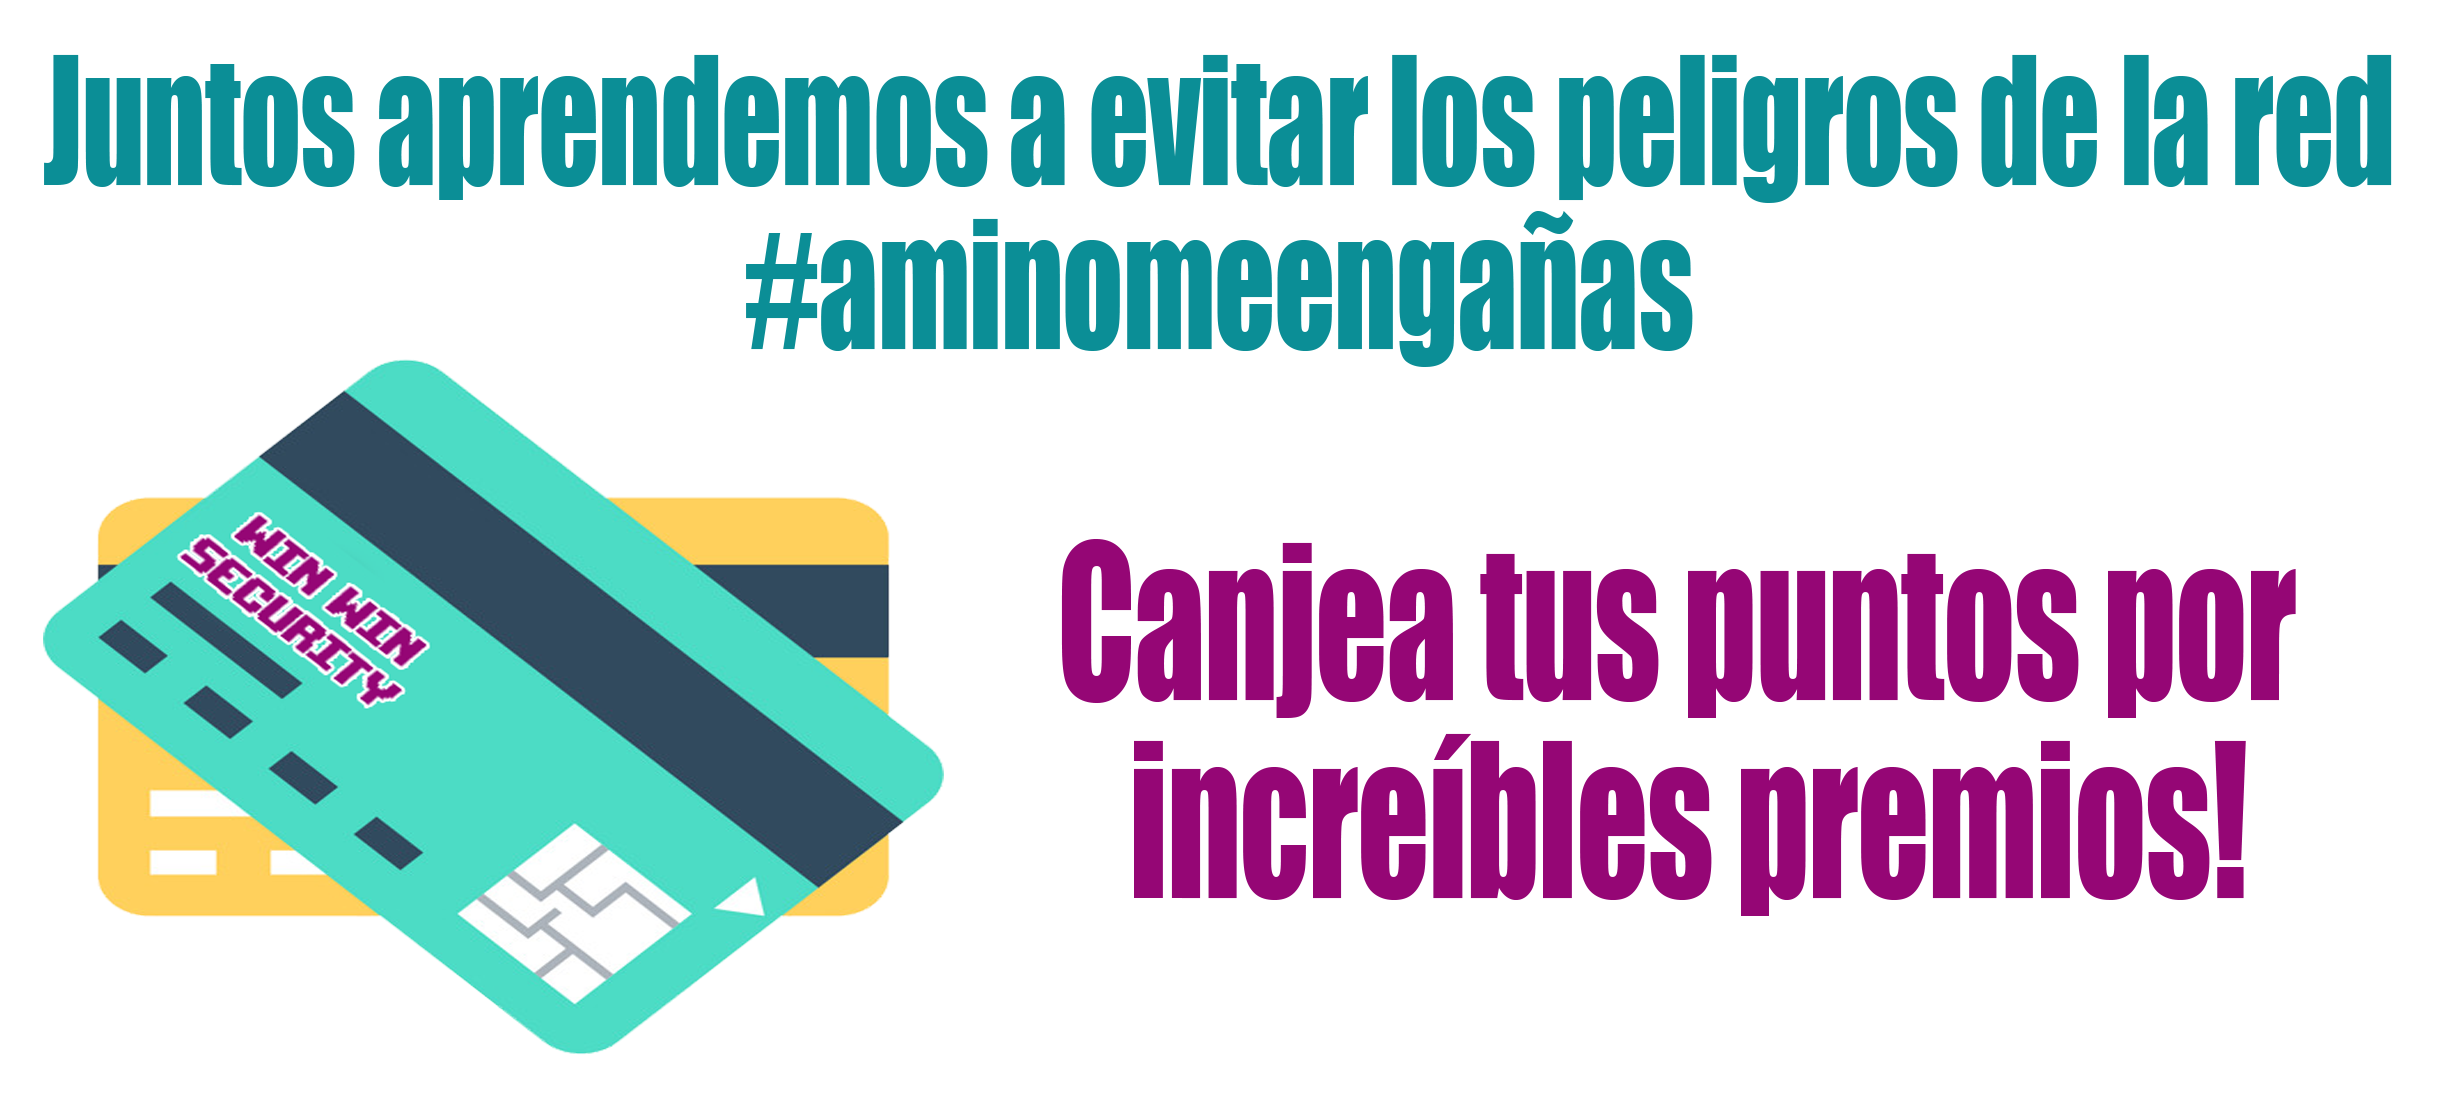
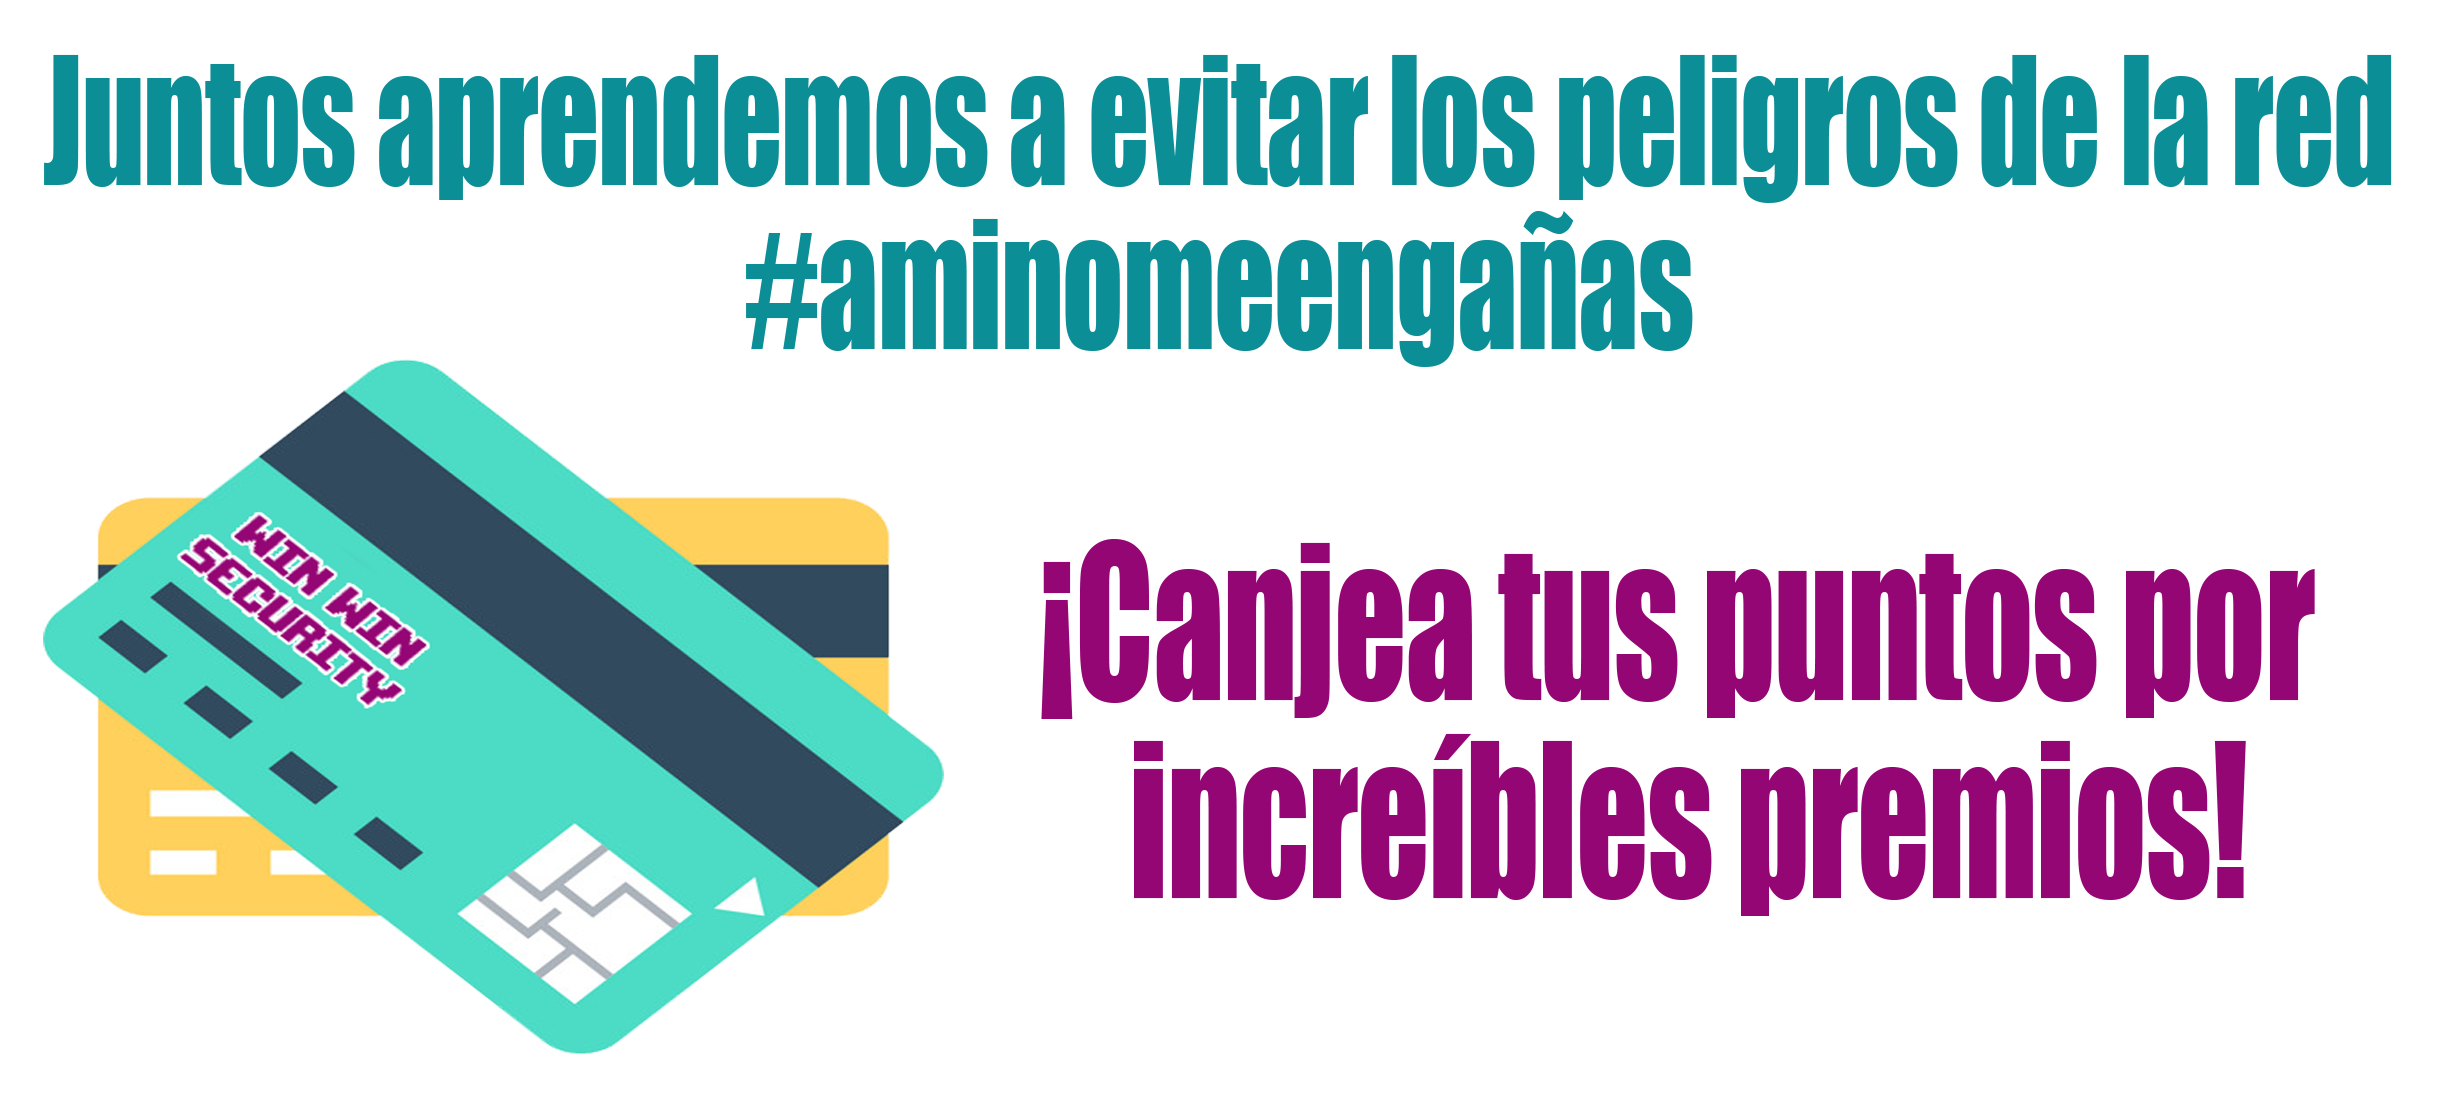
actualizado

Changed region(s): [[0.4033, 0.4941, 0.9616, 0.6485]]

diff --git a/home.html b/home.html
@@ -83,29 +83,39 @@
 					<a href="https://rosyg.github.io/first-game/" class="image fit thumb">
 						<img src="images/thumbs/01.jpg" alt="" />
 					</a>
-					<h3>Magna sed consequat tempus</h3>
-					<p>Lorem ipsum dolor sit amet nisl sed nullam feugiat.</p>
+					<h3>WARNING WEB</h3>
+					<p>Las redes sociales estan llenas de personas que tiene identidades falsas para 
+						acercarse a tí, identifica estos peligros y acaba con ellos para conseguir puntos.</p>
 				</article>
 				<article class="6u$ 12u$(xsmall) work-item">
 					<a href="images/fulls/02.jpg" class="image fit thumb">
 						<img src="images/thumbs/02.jpg" alt="" />
 					</a>
-					<h3>Ultricies lacinia interdum</h3>
-					<p>Lorem ipsum dolor sit amet nisl sed nullam feugiat.</p>
+					<h3>PICTURES FAKE</h3>
+					<p>Cuando subes una foto a internet, cualquiera puede tener acceso a ella y en las
+						manos equivoacadas pueden intentar dañar tu imagen. Encuentra tus fotos y recuperalas 
+					a través de los laberintos de la red.</p>
 				</article>
 				<article class="6u 12u$(xsmall) work-item">
 					<a href="images/fulls/03.jpg" class="image fit thumb">
 						<img src="images/thumbs/03.jpg" alt="" />
 					</a>
-					<h3>Tortor metus commodo</h3>
-					<p>Lorem ipsum dolor sit amet nisl sed nullam feugiat.</p>
+					<h3>NO TODO ES LO QUE PARECE</h3>
+					<p>La personas pueden aparentar lo que no son a tráves de un monitor, enviar fotos falsas, aparentar otra edad, 
+						nunca aceptes verte con alguien que conociste en redes sociales. Evita que este falso usuario consiga tu oinformación y
+						denúncialo con las autoridades.
+					</p>
 				</article>
 				<article class="6u$ 12u$(xsmall) work-item">
 					<a href="images/fulls/04.jpg" class="image fit thumb">
 						<img src="images/thumbs/04.jpg" alt="" />
 					</a>
-					<h3>Quam neque phasellus</h3>
-					<p>Lorem ipsum dolor sit amet nisl sed nullam feugiat.</p>
+					<h3>RUN RUN</h3>
+					<p>Cuando aceptas solicitudes de personas sin foto de perfil y con pocas amistades, te puedes llevar
+						una mala sorpresa. Antes de aceptar un nuevo amigo revisa su perfil, verifica si tienen amigos en 
+						común y de ser así preguntales si lo cnoocen, si te dices que no, elimina su solicitud y bloquealo.
+						El personaje de nuestro juego no fue tan inteligente y ahora tendrá que uir de su nuevo amigo, ayudalo
+						a llegar con las autoridades antes de que lo alcance.</p>
 				</article>
 				<article class="6u 12u$(xsmall) work-item">
 					<a href="images/fulls/05.jpg" class="image fit thumb">
@@ -135,7 +145,7 @@
 		<section id="aprende">
 			<h2>APRENDE MÁS</h2>
 			<H3>No permitas que te sorprendan, tú puedes prevenir ser engañado, mantente simepre actualizado e informado. Comparte está
-				información en tus redes y con tus amigos y gana puntos. </H3>
+				información en tus redes y con tus amigos ¡gana puntos!. </H3>
 			<div class="row">
 				<article class="8u$ 12u$(xsmall) work-item">
 					<img class="infogr" src="images/navega-y-aprende-con-seguridad.jpg" alt="">

diff --git a/assets/css/index.css b/assets/css/index.css
@@ -12,7 +12,7 @@
 }
 
 ::placeholder { 
-  color: purple; 
+  color: darkseagreen; 
 }
 
 
@@ -30,11 +30,11 @@
 
 
 body {
-  background-image: url("../../images/img-background.jpg")!important;
-  background-size: cover;
-  background:no-repeat fixed center; 
-  width: 100%;
-  height: 100vh;
+  background: url(../../images/img-background.jpg) no-repeat center center fixed;
+    -webkit-background-size: cover;
+    -moz-background-size: cover;
+    -o-background-size: cover;
+    background-size: cover;
   }
 
 #face {
